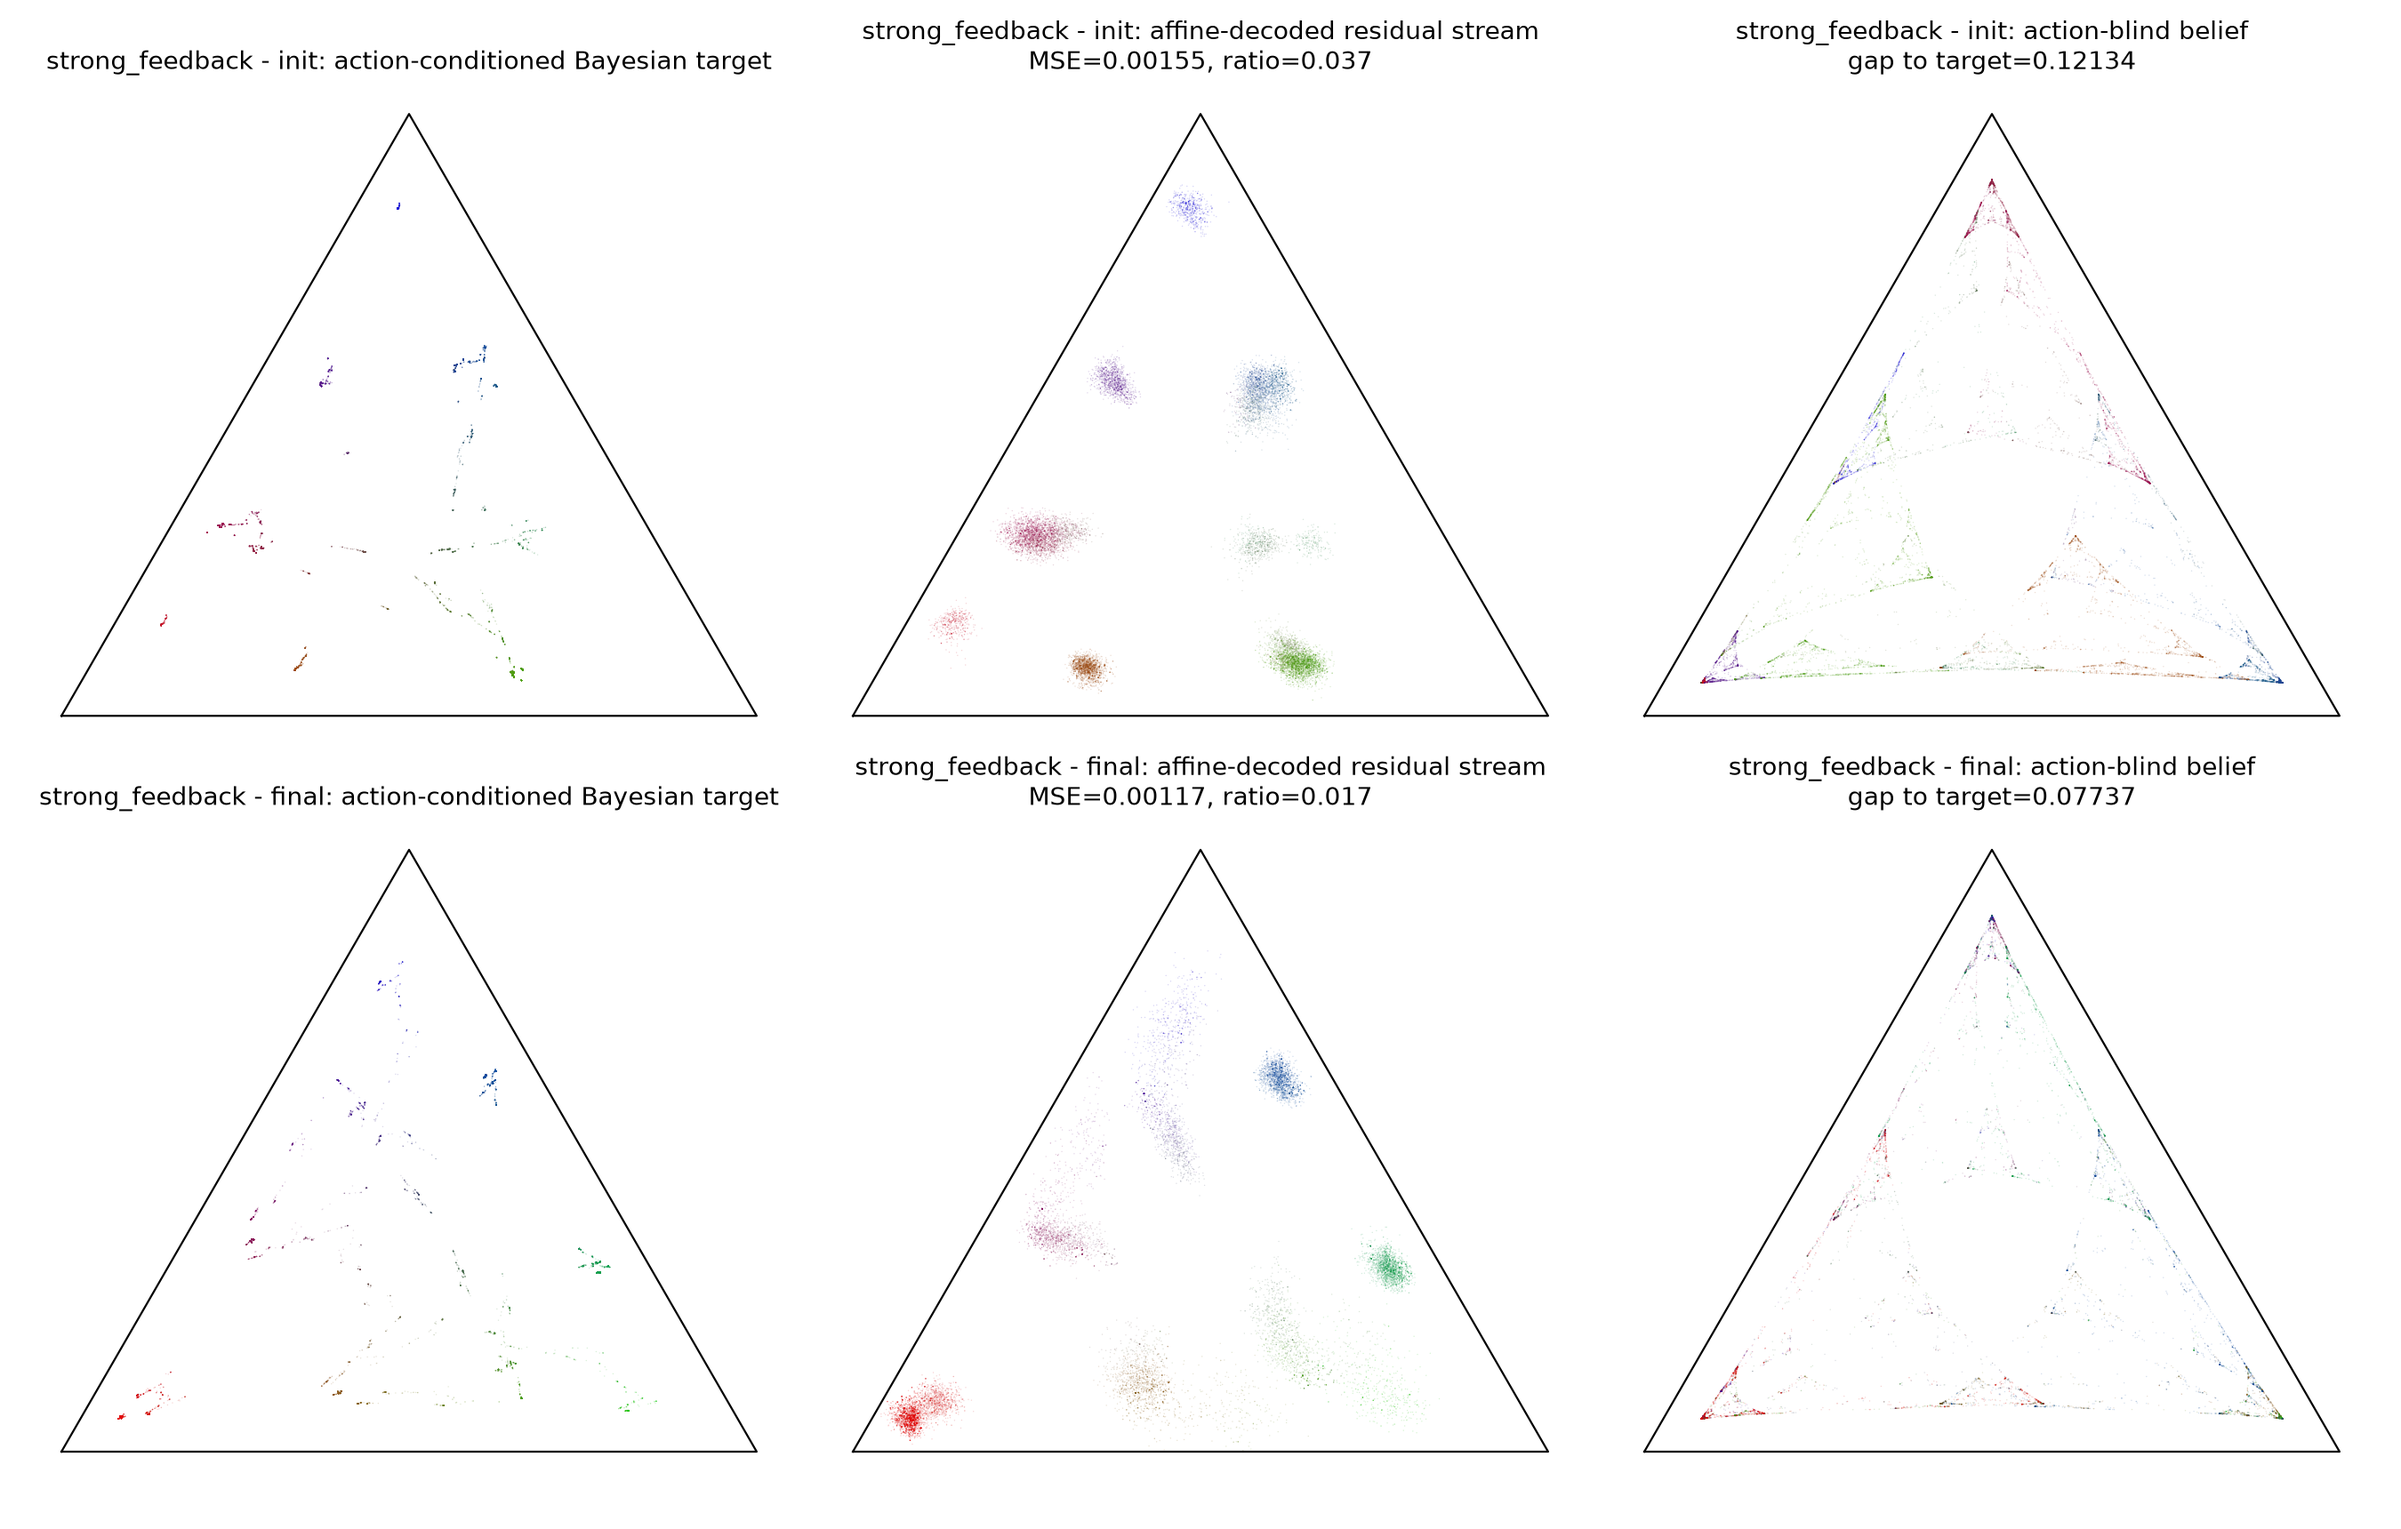
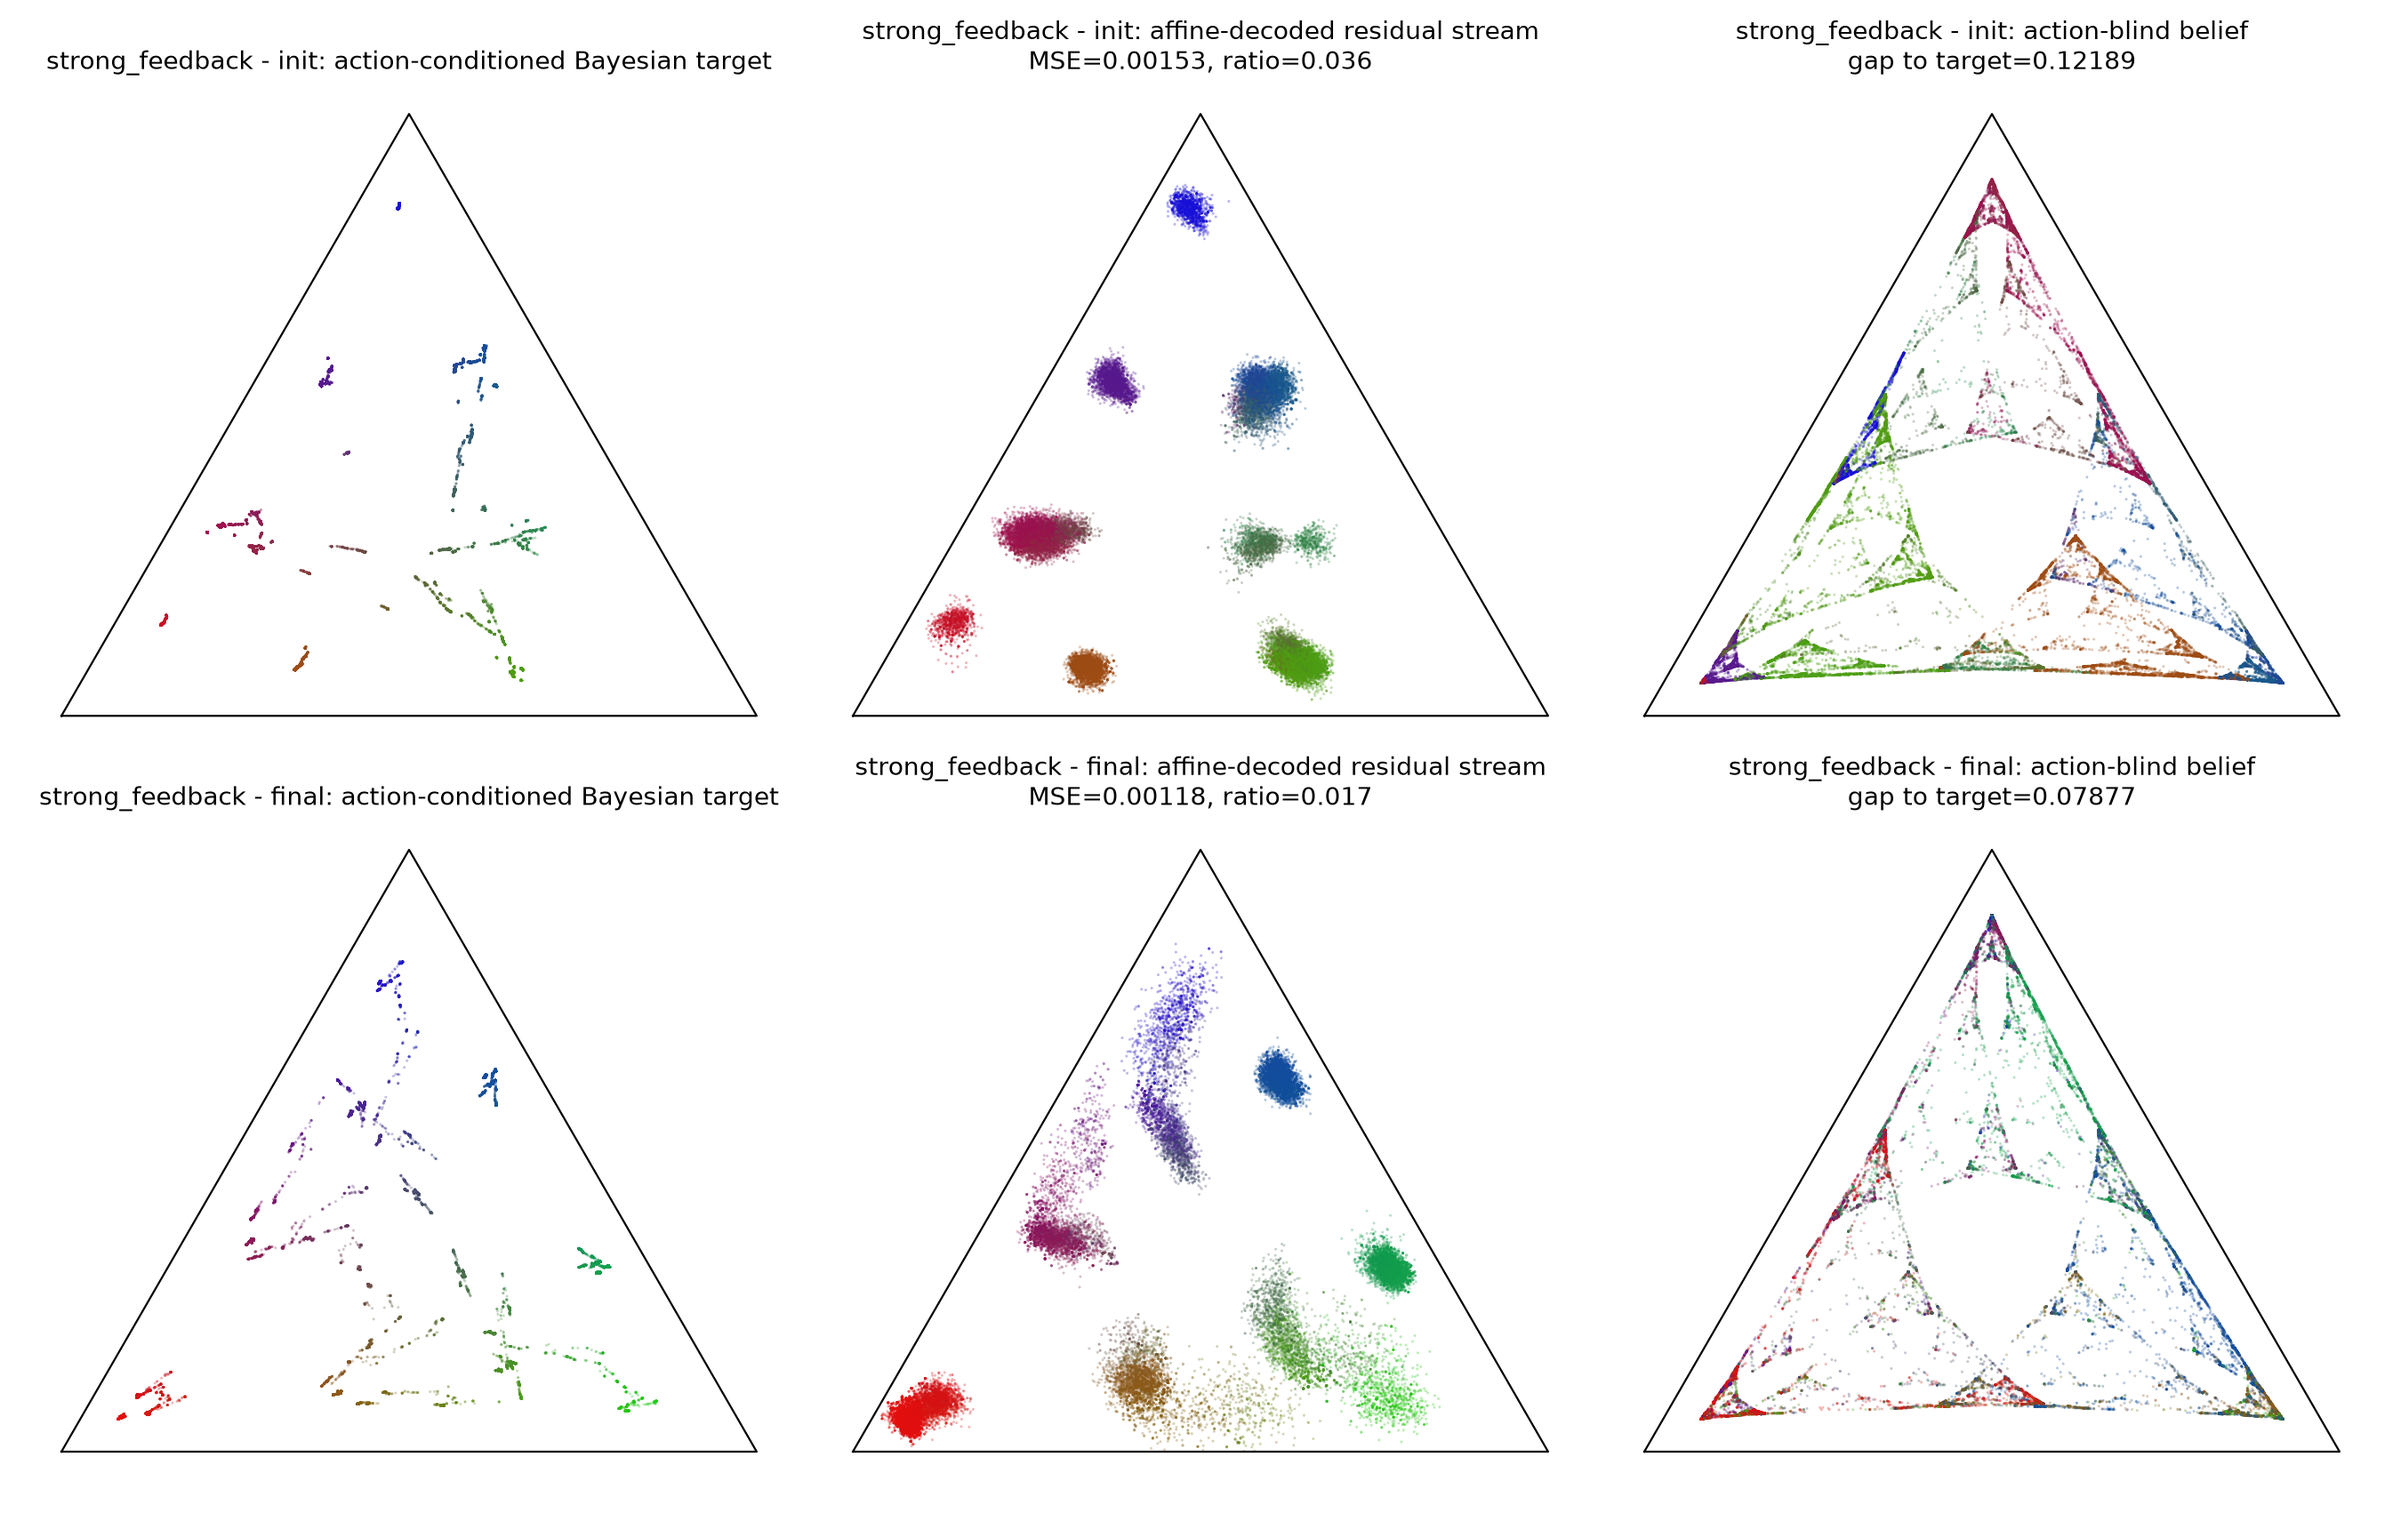
Scale simplex markers to the probe budget and belief-set sparsity
Guess feedback collapses the reachable belief set onto a few atoms, which the
marker size tuned for the dense passive fractal rendered as an empty triangle.
Redraws the contrast run's init-versus-final panels at 40,960 test samples;
the reproduced awareness ratios (0.418 to 0.209 sighted, 4.51 to 4.01 blind)
match the committed 16,384-sample run.

diff --git a/experiments/mess3_feedback_cycle_1/analysis.py b/experiments/mess3_feedback_cycle_1/analysis.py
@@ -522,6 +522,18 @@ def probe_checkpoint(
     return result
 
 
+def _scatter_style(n_points: int) -> dict[str, float]:
+    """Keep simplex clouds legible across very different probe budgets."""
+
+    # Feedback collapses the reachable belief set onto a few tight atoms, so
+    # the marker floor matters as much as the sample-count scaling.
+    scale = float(np.sqrt(PLOT_SAMPLE_SIZE / max(n_points, 1)))
+    return {
+        "s": float(np.clip(1.2 * scale, 1.2, 6.0)),
+        "alpha": float(np.clip(0.3 * scale, 0.25, 0.7)),
+    }
+
+
 def _draw_probe_triplet(
     axes: np.ndarray,
     result: ProbeResult,
@@ -529,39 +541,37 @@ def _draw_probe_triplet(
     title: str,
 ) -> None:
     colors = np.clip(result.target_display, 0.0, 1.0)
+    style = _scatter_style(len(result.target_display))
     simplex_scatter(
         axes[0],
         result.target_display,
         colors=colors,
-        s=0.25,
-        alpha=0.18,
         title=f"{title}: action-conditioned Bayesian target",
         labels=("s0", "s1", "s2"),
+        **style,
     )
     simplex_scatter(
         axes[1],
         result.decoded_display,
         colors=colors,
-        s=0.25,
-        alpha=0.18,
         title=(
             f"{title}: affine-decoded residual stream\n"
             f"MSE={result.metrics['mse']:.5f}, "
             f"ratio={result.metrics['global_mse_ratio']:.3f}"
         ),
         labels=("s0", "s1", "s2"),
+        **style,
     )
     simplex_scatter(
         axes[2],
         result.blind_display,
         colors=colors,
-        s=0.25,
-        alpha=0.18,
         title=(
             f"{title}: action-blind belief\n"
             f"gap to target={result.metrics['action_blind_belief_mse']:.5f}"
         ),
         labels=("s0", "s1", "s2"),
+        **style,
     )
 
 
@@ -609,21 +619,19 @@ def plot_factor_geometry(result: ProbeResult, *, title: str, path: Path) -> None
         target, decoded = result.factor_display[name]
         caption, vertices = labels[name]
         colors = np.clip(target, 0.0, 1.0)
+        style = _scatter_style(len(target))
         simplex_scatter(
             axes[row][0],
             target,
             colors=colors,
-            s=0.25,
-            alpha=0.18,
             title=f"{title}: {caption} target",
             labels=vertices,
+            **style,
         )
         simplex_scatter(
             axes[row][1],
             decoded,
             colors=colors,
-            s=0.25,
-            alpha=0.18,
             title=(
                 f"{title}: decoded {caption}\n"
                 f"ratio="
@@ -631,6 +639,7 @@ def plot_factor_geometry(result: ProbeResult, *, title: str, path: Path) -> None
                 f"subspace overlap={overlap:.3f}"
             ),
             labels=vertices,
+            **style,
         )
     figure.tight_layout()
     figure.savefig(path, dpi=200)
